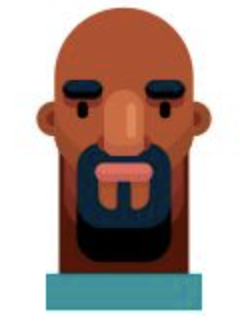
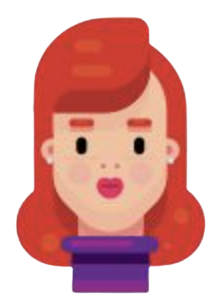
Fix images background

diff --git a/components/users/Player.vue b/components/users/Player.vue
@@ -1,7 +1,7 @@
 <template lang="pug">
 .player-wrapper(:class="{ voted: user.voted }")
   .player
-    img.avatar(src="@/assets/images/characters/character-1.png")
+    img.avatar(:src="userImage")
     .name {{user.name}}
   .vote-display(:class="{ active: showVotes && user.voted === true }" ref="vote-display")
     .circle
@@ -27,6 +27,10 @@ export default {
 
     user() {
       return this.player(this.userId);
+    },
+
+    userImage() {
+      return this.user.character_image ? `/_nuxt/assets/images/characters/${this.user.character_image}` : '';
     },
   },
 };

diff --git a/pages/voting-room/index.vue b/pages/voting-room/index.vue
@@ -32,8 +32,10 @@ export default {
   },
 
   mounted() {
-    this.getCurrentUser();
-    this.getCurrentRoom().then(() => this.subscribeToCable());
+    this.getCurrentUser()
+      .then(() => this.getCurrentRoom())
+      .then(() => this.subscribeToCable())
+      .catch(() => this.$router.push('/'));
     this.initLayoutModule();
   },
 

diff --git a/components/common/BarChart.vue b/components/common/BarChart.vue
@@ -31,7 +31,7 @@ export default {
             yAxes: [
               {
                 ticks: {
-                  step: 1,
+                  stepSize: 1,
                   beginAtZero: true,
                 },
                 gridLines: {

diff --git a/store/user/userModule.js b/store/user/userModule.js
@@ -25,6 +25,7 @@ export const actions = {
       })
       .catch((errors) => {
         commit(TYPES.USER_ERROR, errors);
+        return Promise.reject(errors);
       });
   },
 
